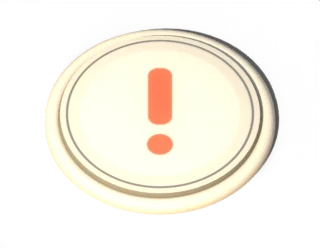
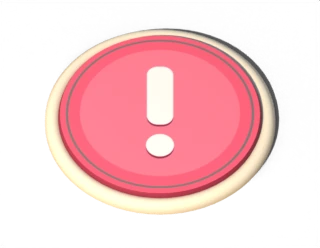
Review round 7 fixes: solid HUD, rose event spaces, dial focus, podium
- HUD slates are near-opaque, so busy board art no longer shows through the numbers; the 4th-place
  medal is teal like the results podium.
- Event spaces are rose enamel with a white "!" instead of a cream disc that read as blank.
- The Orbit Dial dims the scene more clearly and puts a pool of the player's colour under their
  feet; it stops with a clean white shockwave ring instead of a flat burst. The step counter is a
  small dial medallion in the player's colour.
- The turn camera sits a little closer so the active hero reads larger.
- NPC name plates fade out in the overview, where they were too small to read.
- Lost minigame hearts get a light rim so they read on the dark plates.
- Character select dims unpicked heroes more and brightens the pick's light pool.
- Results: first place stands clearly tallest, the group is re-centred and the winner stands in
  a soft shaft of light.
- Relic Relay draws the sky behind its cut-out island (the top of the screen was flat navy).
- The Gleam Grab front lawn gets tufts and flowers; a slight cool black lift in the grade keeps
  deep shade from reading as ink.

Claude-Session: https://claude.ai/code/session_01SaCmMRmT6ous3ZUywnLqEj

diff --git a/src/game/board/OrbitDial.ts b/src/game/board/OrbitDial.ts
@@ -38,8 +38,12 @@ export class OrbitDial {
     tail.fillStyle(opts.color, 1);
     tail.fillTriangle(-16, 80, 16, 80, 0, 104);
     // The world dims around the hero while the dial spins (a spotlight centred on the screen).
-    const dim = s.add.image(GAME_WIDTH / 2, GAME_HEIGHT / 2, 'fx-spot').setScrollFactor(0).setDisplaySize(GAME_WIDTH * 1.5, GAME_HEIGHT * 1.5).setDepth(DEPTH.worldUi + 40).setAlpha(0);
+    const dim = s.add.image(GAME_WIDTH / 2, GAME_HEIGHT / 2, 'fx-spot').setScrollFactor(0).setDisplaySize(GAME_WIDTH * 1.18, GAME_HEIGHT * 1.18).setDepth(DEPTH.worldUi + 40).setAlpha(0);
     s.tweens.add({ targets: dim, alpha: 1, duration: 300 });
+    // A pool of light in the player's colour under the hero's feet (under the hero, over the ground).
+    const pool = s.add.image(x, token.y + 4, 'fx-dot').setTint(opts.color).setBlendMode(Phaser.BlendModes.ADD).setDepth(token.depth - 0.5).setScale(7.5, 2.4).setAlpha(0);
+    s.tweens.add({ targets: pool, alpha: 0.75, duration: 300 });
+    s.tweens.add({ targets: pool, scaleX: 8.4, scaleY: 2.7, duration: 700, yoyo: true, repeat: -1, ease: 'Sine.InOut' });
     const rendered = s.textures.exists('rendered-ui-dial');
     const ring = rendered ? s.add.image(0, 0, 'rendered-ui-dial').setDisplaySize(180, 180) : s.add.image(0, 0, 'orbit-dial').setScale(0.4);
     // A darker copy just below reads as the medallion's thickness (a coin edge), not a flat decal.
@@ -119,7 +123,9 @@ export class OrbitDial {
     num.setText(String(result)).setColor(CSS.goldDark);
     audio.play('dialStop');
     this.fx.sparks(x, y, 26);
-    this.fx.vfx('impact', x, y, { scale: 0.7, blend: 'add', alpha: 0.9 });
+    // A clean white shockwave ring off the medallion (instead of a flat burst).
+    const wave = s.add.image(x, y, 'fx-target').setDepth(DEPTH.worldUi + 49).setDisplaySize(200, 200).setAlpha(0.9);
+    s.tweens.add({ targets: wave, displayWidth: 460, displayHeight: 460, alpha: 0, duration: 420, ease: 'Quad.Out', onComplete: () => wave.destroy() });
     s.tweens.add({ targets: num, scale: { from: 1.7, to: 1.15 }, duration: 380, ease: 'Back.Out' });
     s.tweens.add({ targets: ring, scaleX: ring.scaleX * 1.15, scaleY: ring.scaleY * 1.15, duration: 200, yoyo: true });
     token.play('jump');
@@ -139,6 +145,8 @@ export class OrbitDial {
     token.play('celebrate');
     setDebugInfo('dialShown', false);
     s.tweens.add({ targets: dim, alpha: 0, duration: 320, onComplete: () => dim.destroy() });
+    s.tweens.killTweensOf(pool);
+    s.tweens.add({ targets: pool, alpha: 0, duration: 320, onComplete: () => pool.destroy() });
     await new Promise<void>((r) =>
       s.tweens.add({
         targets: root,

diff --git a/src/game/effects/GradePipeline.ts b/src/game/effects/GradePipeline.ts
@@ -16,6 +16,7 @@ uniform float uGlow;
 uniform float uGlowThreshold;
 uniform vec3 uShadowTint;
 uniform vec3 uHighTint;
+uniform vec3 uLift;
 varying vec2 outTexCoord;
 
 void main() {
@@ -59,6 +60,8 @@ void main() {
   float l = dot(rgb, vec3(0.2126, 0.7152, 0.0722));
   rgb = mix(vec3(l), rgb, uSaturation);
   rgb = (rgb - 0.5) * uContrast + 0.5;
+  // Lift the blacks a touch towards a cool blue-green, so deep shade reads as air, not ink.
+  rgb = uLift + rgb * (1.0 - uLift);
   rgb *= uTint;
   // Split toning: cool shadows, warm highlights (adds depth without shifting the mid-tones much).
   float tl = dot(clamp(rgb, 0.0, 1.0), vec3(0.2126, 0.7152, 0.0722));
@@ -87,6 +90,8 @@ export interface GradeSettings {
   glowThreshold: number;
   shadowTint: [number, number, number];
   highTint: [number, number, number];
+  /** Black level lift per channel (0 = none). */
+  lift: [number, number, number];
 }
 
 export const DEFAULT_GRADE: GradeSettings = {
@@ -103,11 +108,12 @@ export const DEFAULT_GRADE: GradeSettings = {
   glowThreshold: 0.8,
   shadowTint: [0.96, 0.98, 1.04],
   highTint: [1.03, 1.0, 0.96],
+  lift: [0.016, 0.024, 0.034],
 };
 
 /**
- * Camera colour grade shared by the world scenes: a mid-tone curve, saturation, contrast, split
- * toning, a light bloom and a vignette in a single full-screen pass.
+ * Camera colour grade shared by the world scenes: a mid-tone curve, saturation, contrast, a
+ * black lift, split toning, a light bloom and a vignette in a single full-screen pass.
  */
 export class GradePipeline extends Phaser.Renderer.WebGL.Pipelines.PostFXPipeline {
   settings: GradeSettings = { ...DEFAULT_GRADE };
@@ -130,6 +136,7 @@ export class GradePipeline extends Phaser.Renderer.WebGL.Pipelines.PostFXPipelin
     this.set1f('uGlowThreshold', s.glowThreshold);
     this.set3f('uShadowTint', s.shadowTint[0], s.shadowTint[1], s.shadowTint[2]);
     this.set3f('uHighTint', s.highTint[0], s.highTint[1], s.highTint[2]);
+    this.set3f('uLift', s.lift[0], s.lift[1], s.lift[2]);
   }
 }
 

diff --git a/src/game/board/BoardManager.ts b/src/game/board/BoardManager.ts
@@ -40,6 +40,7 @@ export class BoardManager {
   readonly decorations = new Map<string, Phaser.GameObjects.GameObject & Phaser.GameObjects.Components.Transform>();
   /** Fork arrows on the ground (grown when the camera pulls back so junctions stay readable). */
   private chevrons: Phaser.GameObjects.Container[] = [];
+  private npcPlates: Phaser.GameObjects.Container[] = [];
   private bridgeLayer!: Phaser.GameObjects.Container;
   private detourLayer!: Phaser.GameObjects.Container;
   private relic!: Phaser.GameObjects.Container;
@@ -240,14 +241,20 @@ export class BoardManager {
     pg.lineStyle(2, def.color, 1);
     pg.strokeRoundedRect(-pw / 2, -13, pw, 26, 13);
     plate.add([pg, label]);
+    this.npcPlates.push(plate);
     // Gentle idle breathing.
     this.scene.tweens.add({ targets: spr, scaleY: 0.432, duration: 1200 + Math.random() * 400, yoyo: true, repeat: -1, ease: 'Sine.InOut' });
   }
 
-  /** Keep fork arrows readable at any zoom (called every frame with the board camera's zoom). */
+  /**
+   * Keep fork arrows readable at any zoom (called every frame with the board camera's zoom). NPC
+   * name plates fade out in the overview, where they would be too small to read.
+   */
   scaleForZoom(zoom: number): void {
     const k = 1.4 * Phaser.Math.Clamp(0.9 / zoom, 1, 2);
     for (const c of this.chevrons) if (Math.abs(c.scaleX - k) > 0.01) c.setScale(k, k * GROUND_SQUASH);
+    const a = Phaser.Math.Clamp((zoom - 0.62) / 0.24, 0, 1);
+    for (const p of this.npcPlates) if (Math.abs(p.alpha - a) > 0.01) p.setAlpha(a);
   }
 
   npcPose(id: NpcId, pose: string): void {

diff --git a/src/game/scenes/ResultsScene.ts b/src/game/scenes/ResultsScene.ts
@@ -19,8 +19,8 @@ import { applyGrade } from '../effects/GradePipeline';
 import { setDebugInfo } from '../debug/debug';
 
 /** Podium x and height by finishing place (1st in the centre). Must match scripts/art/scenes.py. */
-const PODIUM_X = [960, 600, 1320, 1680];
-const PODIUM_H = [270, 200, 150, 105];
+const PODIUM_X = [920, 560, 1280, 1640];
+const PODIUM_H = [330, 215, 150, 95];
 const PODIUM_BASE = 880;
 /** Camera elevation of the rendered results stage (degrees). */
 const STAGE_ELEV = 16;
@@ -178,6 +178,11 @@ export class ResultsScene extends Phaser.Scene {
           // The winner stands in a warm pool of light.
           const pool = this.add.image(x, baseY - h + 6, 'fx-dot').setScale(11, 3).setTint(0xfff0c8).setBlendMode(Phaser.BlendModes.ADD).setAlpha(0).setDepth(-1);
           this.tweens.add({ targets: pool, alpha: 0.45, duration: 400 });
+          // ...under a soft shaft of warm light from above.
+          if (this.textures.exists('fx-shaft')) {
+            const shaft = this.add.image(x, baseY - h + 30, 'fx-shaft').setOrigin(0.5, 1).setDisplaySize(330, 820).setTint(0xfff0cf).setBlendMode(Phaser.BlendModes.ADD).setAlpha(0).setDepth(-1);
+            this.tweens.add({ targets: shaft, alpha: 0.32, duration: 600 });
+          }
           this.tweens.add({ targets: ribbon, scale: 1, duration: 360, ease: 'Back.Out' });
           if (!lp.isCpu) {
             input.rumbleSlot(lp.slot, 0.6, 0.6, 150);

diff --git a/src/game/board/MovementController.ts b/src/game/board/MovementController.ts
@@ -70,14 +70,17 @@ export class MovementController {
       stem.fillTriangle(-6, 16, 6, 16, 0, 28);
       const badge = new PlayerBadge(this.scene, 0, 0, p.slot, 20);
       const counter = this.scene.add.container(0, -6).setVisible(false);
+      // Steps left, styled as a small Orbit Dial medallion: white rim, player-colour ring, warm face.
       const cg = this.scene.add.graphics();
-      cg.fillStyle(0x1b1530, 0.35);
-      cg.fillCircle(0, 5, 40);
-      cg.fillStyle(COLORS.gold, 1);
-      cg.fillCircle(0, 0, 40);
-      cg.lineStyle(5, COLORS.cream, 1);
-      cg.strokeCircle(0, 0, 40);
-      const counterText = addText(this.scene, 0, -2, '0', 48, { color: CSS.ink, weight: 700, fixed: true });
+      cg.fillStyle(0x0a1120, 0.3);
+      cg.fillCircle(0, 5, 42);
+      cg.fillStyle(0xffffff, 1);
+      cg.fillCircle(0, 0, 42);
+      cg.fillStyle(PLAYER_COLORS[p.slot], 1);
+      cg.fillCircle(0, 0, 38);
+      cg.fillStyle(0xfffaf1, 1);
+      cg.fillCircle(0, 0, 31);
+      const counterText = addText(this.scene, 0, -2, '0', 44, { color: CSS.ink, weight: 700, fixed: true });
       counter.add([cg, counterText]);
       const shield = this.scene.add.sprite(0, 0, 'items', '24').play('bubble-idle').setVisible(false).setAlpha(0.7).setScale(0.42);
       // A faint steady halo in the player's colour behind the active player's badge (every badge is

diff --git a/src/game/effects/animations.ts b/src/game/effects/animations.ts
@@ -103,6 +103,31 @@ export function generateFxTextures(scene: Phaser.Scene): void {
       tex.refresh();
     }
   }
+  if (!scene.textures.exists('fx-shaft')) {
+    // A soft shaft of light falling from above: brightest just above its foot, fading upwards and
+    // out to the sides (the results winner stands in one).
+    const tex = scene.textures.createCanvas('fx-shaft', 128, 512);
+    if (tex) {
+      const ctx = tex.getContext();
+      const img = ctx.createImageData(128, 512);
+      for (let y = 0; y < 512; y++) {
+        const v = y / 511;
+        const up = Math.min(1, v / 0.8) ** 1.6;
+        const foot = v > 0.9 ? 1 - (v - 0.9) / 0.1 : 1;
+        for (let x = 0; x < 128; x++) {
+          const u = (x - 63.5) / 64;
+          const a = Math.exp(-u * u * 4.5) * up * foot;
+          const i = (y * 128 + x) * 4;
+          img.data[i] = 255;
+          img.data[i + 1] = 255;
+          img.data[i + 2] = 255;
+          img.data[i + 3] = Math.round(a * 255);
+        }
+      }
+      ctx.putImageData(img, 0, 0);
+      tex.refresh();
+    }
+  }
   if (!scene.textures.exists('fx-rays')) {
     // Soft sunburst: blurred wedges that fade out from the centre (results spotlight).
     const S = 512;

diff --git a/src/game/ui/Style.ts b/src/game/ui/Style.ts
@@ -4,7 +4,8 @@ import Phaser from 'phaser';
  * House UI style: calm, clean surfaces with few accents.
  *  - Cards: warm-white rounded panels with a slim darker lip (they read as solid panels, not web
  *    cards), a soft drop shadow and ink text (menus, info cards).
- *  - Slate: a translucent dark pill over gameplay (HUD), white text, no outlines or sheens.
+ *  - Slate: a near-opaque dark pill over gameplay (HUD), white text, no outlines or sheens. It
+ *    stays solid enough that busy art behind it never shows through the numbers.
  * Colour is used sparingly: player colours as small accents, gold only for the focused item.
  */
 export const UI = {
@@ -15,7 +16,7 @@ export const UI = {
   inkCss: '#1f2940',
   inkSoftCss: '#5f6a84',
   slate: 0x121b2b,
-  slateAlpha: 0.74,
+  slateAlpha: 0.93,
   shadow: 0x0a1120,
   focus: 0xffc83d,
   focusCss: '#ffc83d',
@@ -79,7 +80,7 @@ export interface SlateOpts {
   borderWidth?: number;
 }
 
-/** Translucent dark HUD surface. */
+/** Dark HUD surface. */
 export function drawSlate(g: Phaser.GameObjects.Graphics, x: number, y: number, w: number, h: number, o: SlateOpts = {}): void {
   const r = Math.min(o.radius ?? h / 2, h / 2);
   g.fillStyle(UI.shadow, 0.14);

diff --git a/src/game/minigames/BaseMinigame.ts b/src/game/minigames/BaseMinigame.ts
@@ -207,7 +207,7 @@ export abstract class BaseMinigame extends Phaser.Scene {
     }
   }
 
-  /** Row of hearts: filled ones in coral, lost ones as dark hollows. */
+  /** Row of hearts: filled ones in coral, lost ones as rimmed hollows. */
   private drawPips(g: Phaser.GameObjects.Graphics, x0: number, y: number, pips: { filled: number; total: number }, flip: boolean): void {
     g.clear();
     const heart = (x: number, cy: number, sz: number, color: number, alpha: number) => {
@@ -225,7 +225,9 @@ export abstract class BaseMinigame extends Phaser.Scene {
         g.fillStyle(0xffffff, 0.55);
         g.fillCircle(x - 8, y - 8, 4);
       } else {
-        heart(x, y, 34, 0x3a5560, 1);
+        // an empty heart: light rim around a dark hollow, so it still reads on the dark plate
+        heart(x, y, 38, 0xffffff, 0.42);
+        heart(x, y + 1, 29, 0x1c2a36, 1);
       }
     }
   }

diff --git a/src/game/scenes/MinigameIntroScene.ts b/src/game/scenes/MinigameIntroScene.ts
@@ -149,7 +149,7 @@ export class MinigameIntroScene extends Phaser.Scene {
       const portrait = addPortrait(this, p.characterId, p.slot, 46, { worldX: x - w / 2 + 50, worldY: y });
       portrait.setPosition(x - w / 2 + 50, y);
       addText(this, x - w / 2 + 112, y - 22, CHARACTERS[p.characterId].name.split(' ')[0].toUpperCase(), 20, { color: UI.inkSoftCss, weight: 700, align: 'left' });
-      const mark = addText(this, x - w / 2 + 112, y + 14, p.isCpu ? 'CPU READY' : 'READY?', 30, { color: p.isCpu ? '#2a8f6a' : UI.inkCss, weight: 700, align: 'left' });
+      const mark = addText(this, x - w / 2 + 112, y + 14, p.isCpu ? 'CPU READY' : 'READY?', 30, { color: p.isCpu ? CSS.tealDark : UI.inkCss, weight: 700, align: 'left' });
       this.readyMarks.set(p.slot, mark);
       this.ready.set(p.slot, p.isCpu);
       if (!p.isCpu) {

diff --git a/src/game/scenes/CharacterSelectScene.ts b/src/game/scenes/CharacterSelectScene.ts
@@ -339,8 +339,8 @@ export class CharacterSelectScene extends Phaser.Scene {
       // Characters nobody is pointing at (or has picked) step back into the shade.
       const lit = active || lockedBy !== null || this.slots.every((v) => v.phase === 'empty');
       if (lit) ch.sprite.clearTint();
-      else ch.sprite.setTint(0xa4aaba);
-      this.tweens.add({ targets: this.pools[ci], alpha: active || lockedBy !== null ? 0.42 : 0, duration: 200 });
+      else ch.sprite.setTint(0x8e94a8);
+      this.tweens.add({ targets: this.pools[ci], alpha: active || lockedBy !== null ? 0.62 : 0, duration: 200 });
       const plate = this.namePlates[ci];
       this.tweens.add({ targets: plate, scale: active || lockedBy !== null ? 1 : 0.94, duration: 160 });
       // Cursor badges hover above the head, side by side.

diff --git a/src/game/ui/Screen.ts b/src/game/ui/Screen.ts
@@ -27,10 +27,10 @@ export interface NavyPanelOpts {
   header?: { color: number; height?: number };
 }
 
-/** The HUD material as a panel: calm translucent slate, optional flat header band and thin rim. */
+/** The HUD material as a panel: calm dark slate, optional flat header band and thin rim. */
 export function drawNavyPanel(g: Phaser.GameObjects.Graphics, x: number, y: number, w: number, h: number, o: NavyPanelOpts = {}): void {
   const r = o.radius ?? 28;
-  drawSlate(g, x, y, w, h, { radius: r, alpha: o.alpha ?? 0.82, border: o.border, borderWidth: 3 });
+  drawSlate(g, x, y, w, h, { radius: r, alpha: o.alpha ?? 0.9, border: o.border, borderWidth: 3 });
   if (o.header) {
     const hh = o.header.height ?? 70;
     g.fillStyle(o.header.color, 1);

diff --git a/src/game/board/BoardPresenter.ts b/src/game/board/BoardPresenter.ts
@@ -307,7 +307,7 @@ export class BoardPresenter implements FlowIO {
 
   async landed(p: PlayerState, node: BoardNodeDef): Promise<void> {
     this.moves.settle(this.state, p);
-    const colors: Record<string, number> = { gleam: 0x5ce1ff, festival: 0xffb050, mischief: 0xc49bff, event: 0xffffff, market: 0xffe08a, portal: 0x9bf2e8, relic: 0xffffff, start: 0x79dcd5 };
+    const colors: Record<string, number> = { gleam: 0x5ce1ff, festival: 0xffb050, mischief: 0xc49bff, event: 0xff8fa3, market: 0xffe08a, portal: 0x9bf2e8, relic: 0xffffff, start: 0x79dcd5 };
     this.scene.board.pulseNode(node.id, colors[node.type] ?? 0xffffff);
     audio.play('land', { volume: 0.7 });
     const c = this.controls(p);
